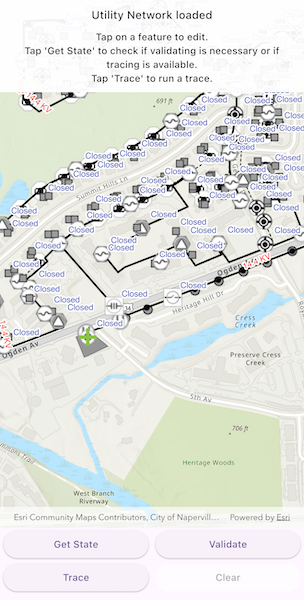
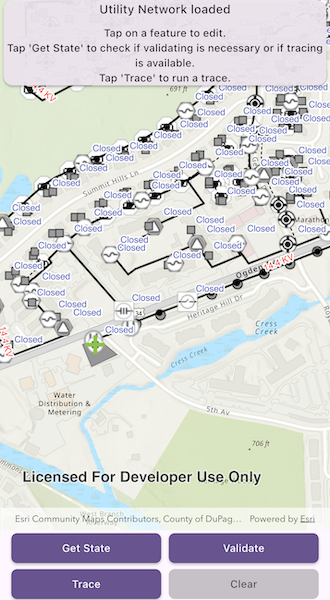
UN Topology dark mode support (#501)
* UN Topology dark mode support

* Update validate_utility_network_topology.dart

* Updated Card margins

* Updated image size

diff --git a/lib/samples/validate_utility_network_topology/validate_utility_network_topology.dart b/lib/samples/validate_utility_network_topology/validate_utility_network_topology.dart
@@ -33,20 +33,26 @@ class _ValidateUtilityNetworkTopologyState
     with SampleStateSupport {
   // Create a controller for the map view.
   final _mapViewController = ArcGISMapView.createController();
+
   // The web map used in the sample.
   late ArcGISMap _map;
+
   // The utility network used in the sample.
   late UtilityNetwork _utilityNetwork;
+
   // The trace parameters to be used for performing traces.
   late UtilityTraceParameters _traceParameters;
 
   // Variables used for editing.
   // The name of the 'Electric Distribution Line' feature table.
   final _lineTableName = 'Electric Distribution Line';
+
   // The name of the 'Electric Distribution Device' feature table.
   final _deviceTableName = 'Electric Distribution Device';
+
   // The name of the device status field in the 'Electric Distribution Device' feature table.
   final _deviceStatusField = 'devicestatus';
+
   // The name of the nominal voltage field in the 'Electric Distribution Line' feature table.
   final _nominalVoltageField = 'nominalvoltage';
 
@@ -166,9 +172,9 @@ class _ValidateUtilityNetworkTopologyState
               ],
             ),
             // Display the status information from the sample actions in the UI.
-            Container(
-              padding: const EdgeInsets.fromLTRB(15, 10, 15, 10),
-              color: Colors.white.withValues(alpha: 0.95),
+            Card(
+              margin: const EdgeInsets.fromLTRB(5, 0, 5, 0),
+              color: Theme.of(context).cardTheme.color?.withValues(alpha: 0.95),
               child: Column(
                 spacing: 10,
                 mainAxisSize: MainAxisSize.min,
